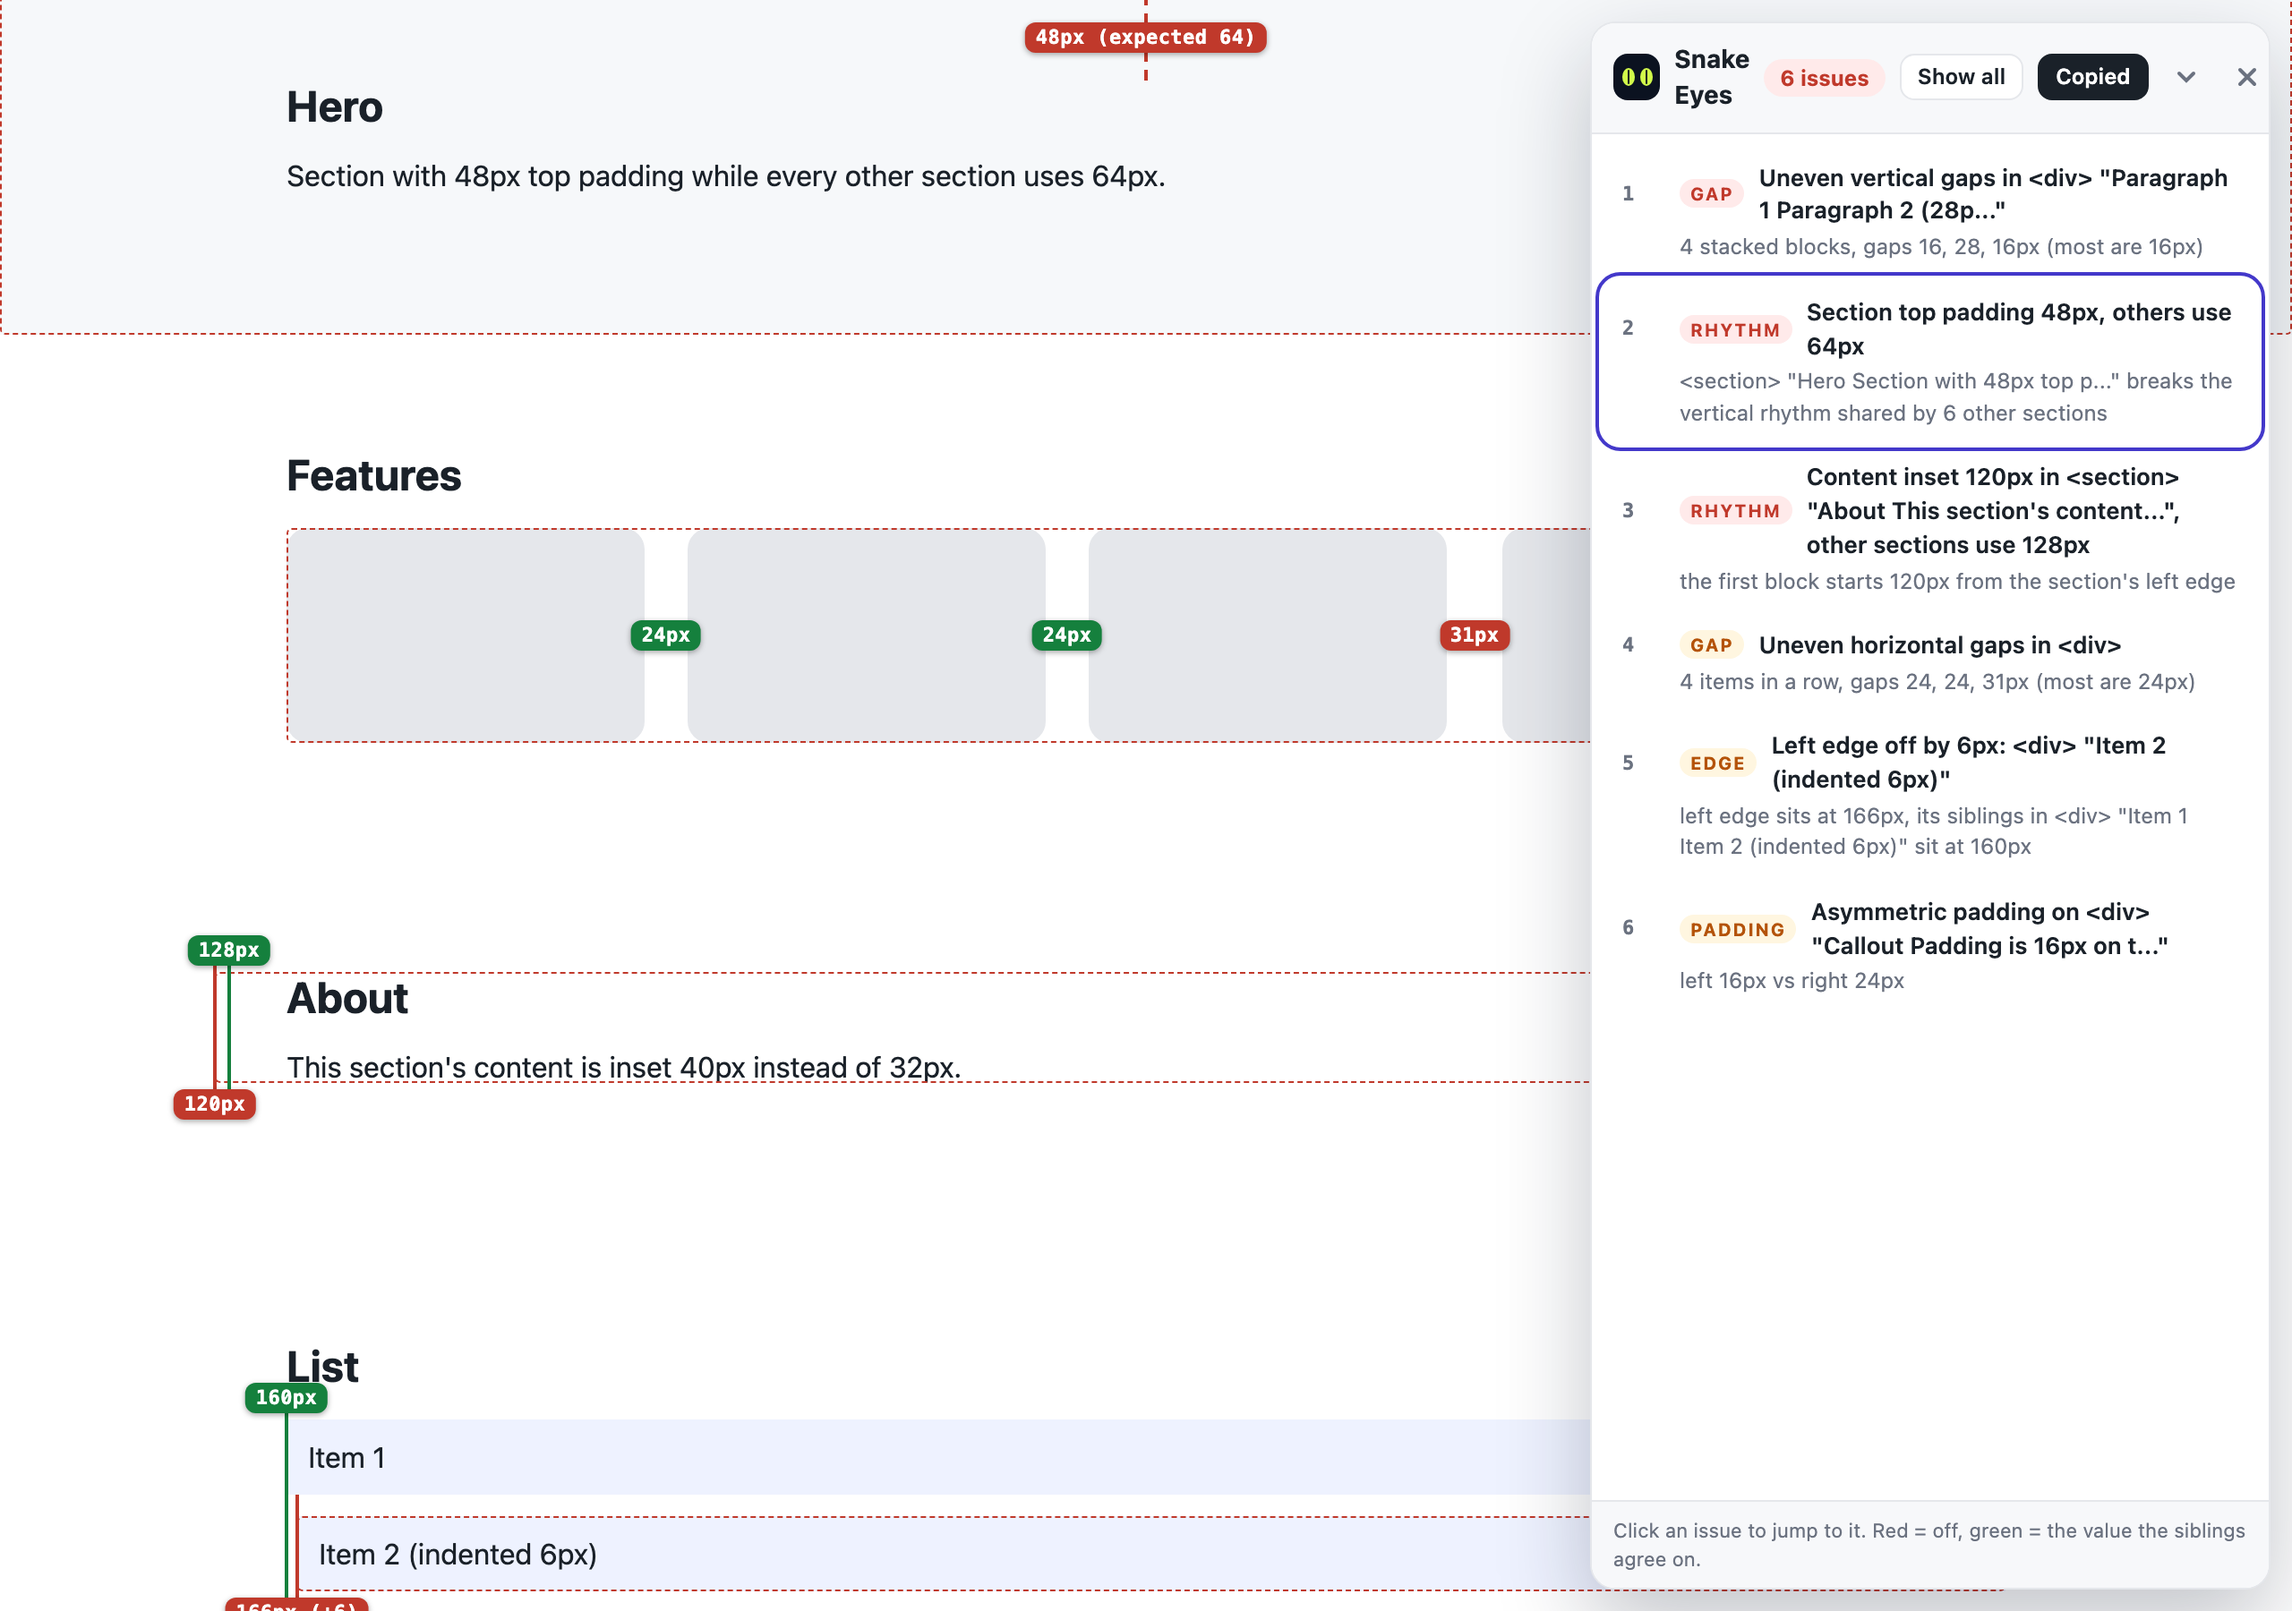
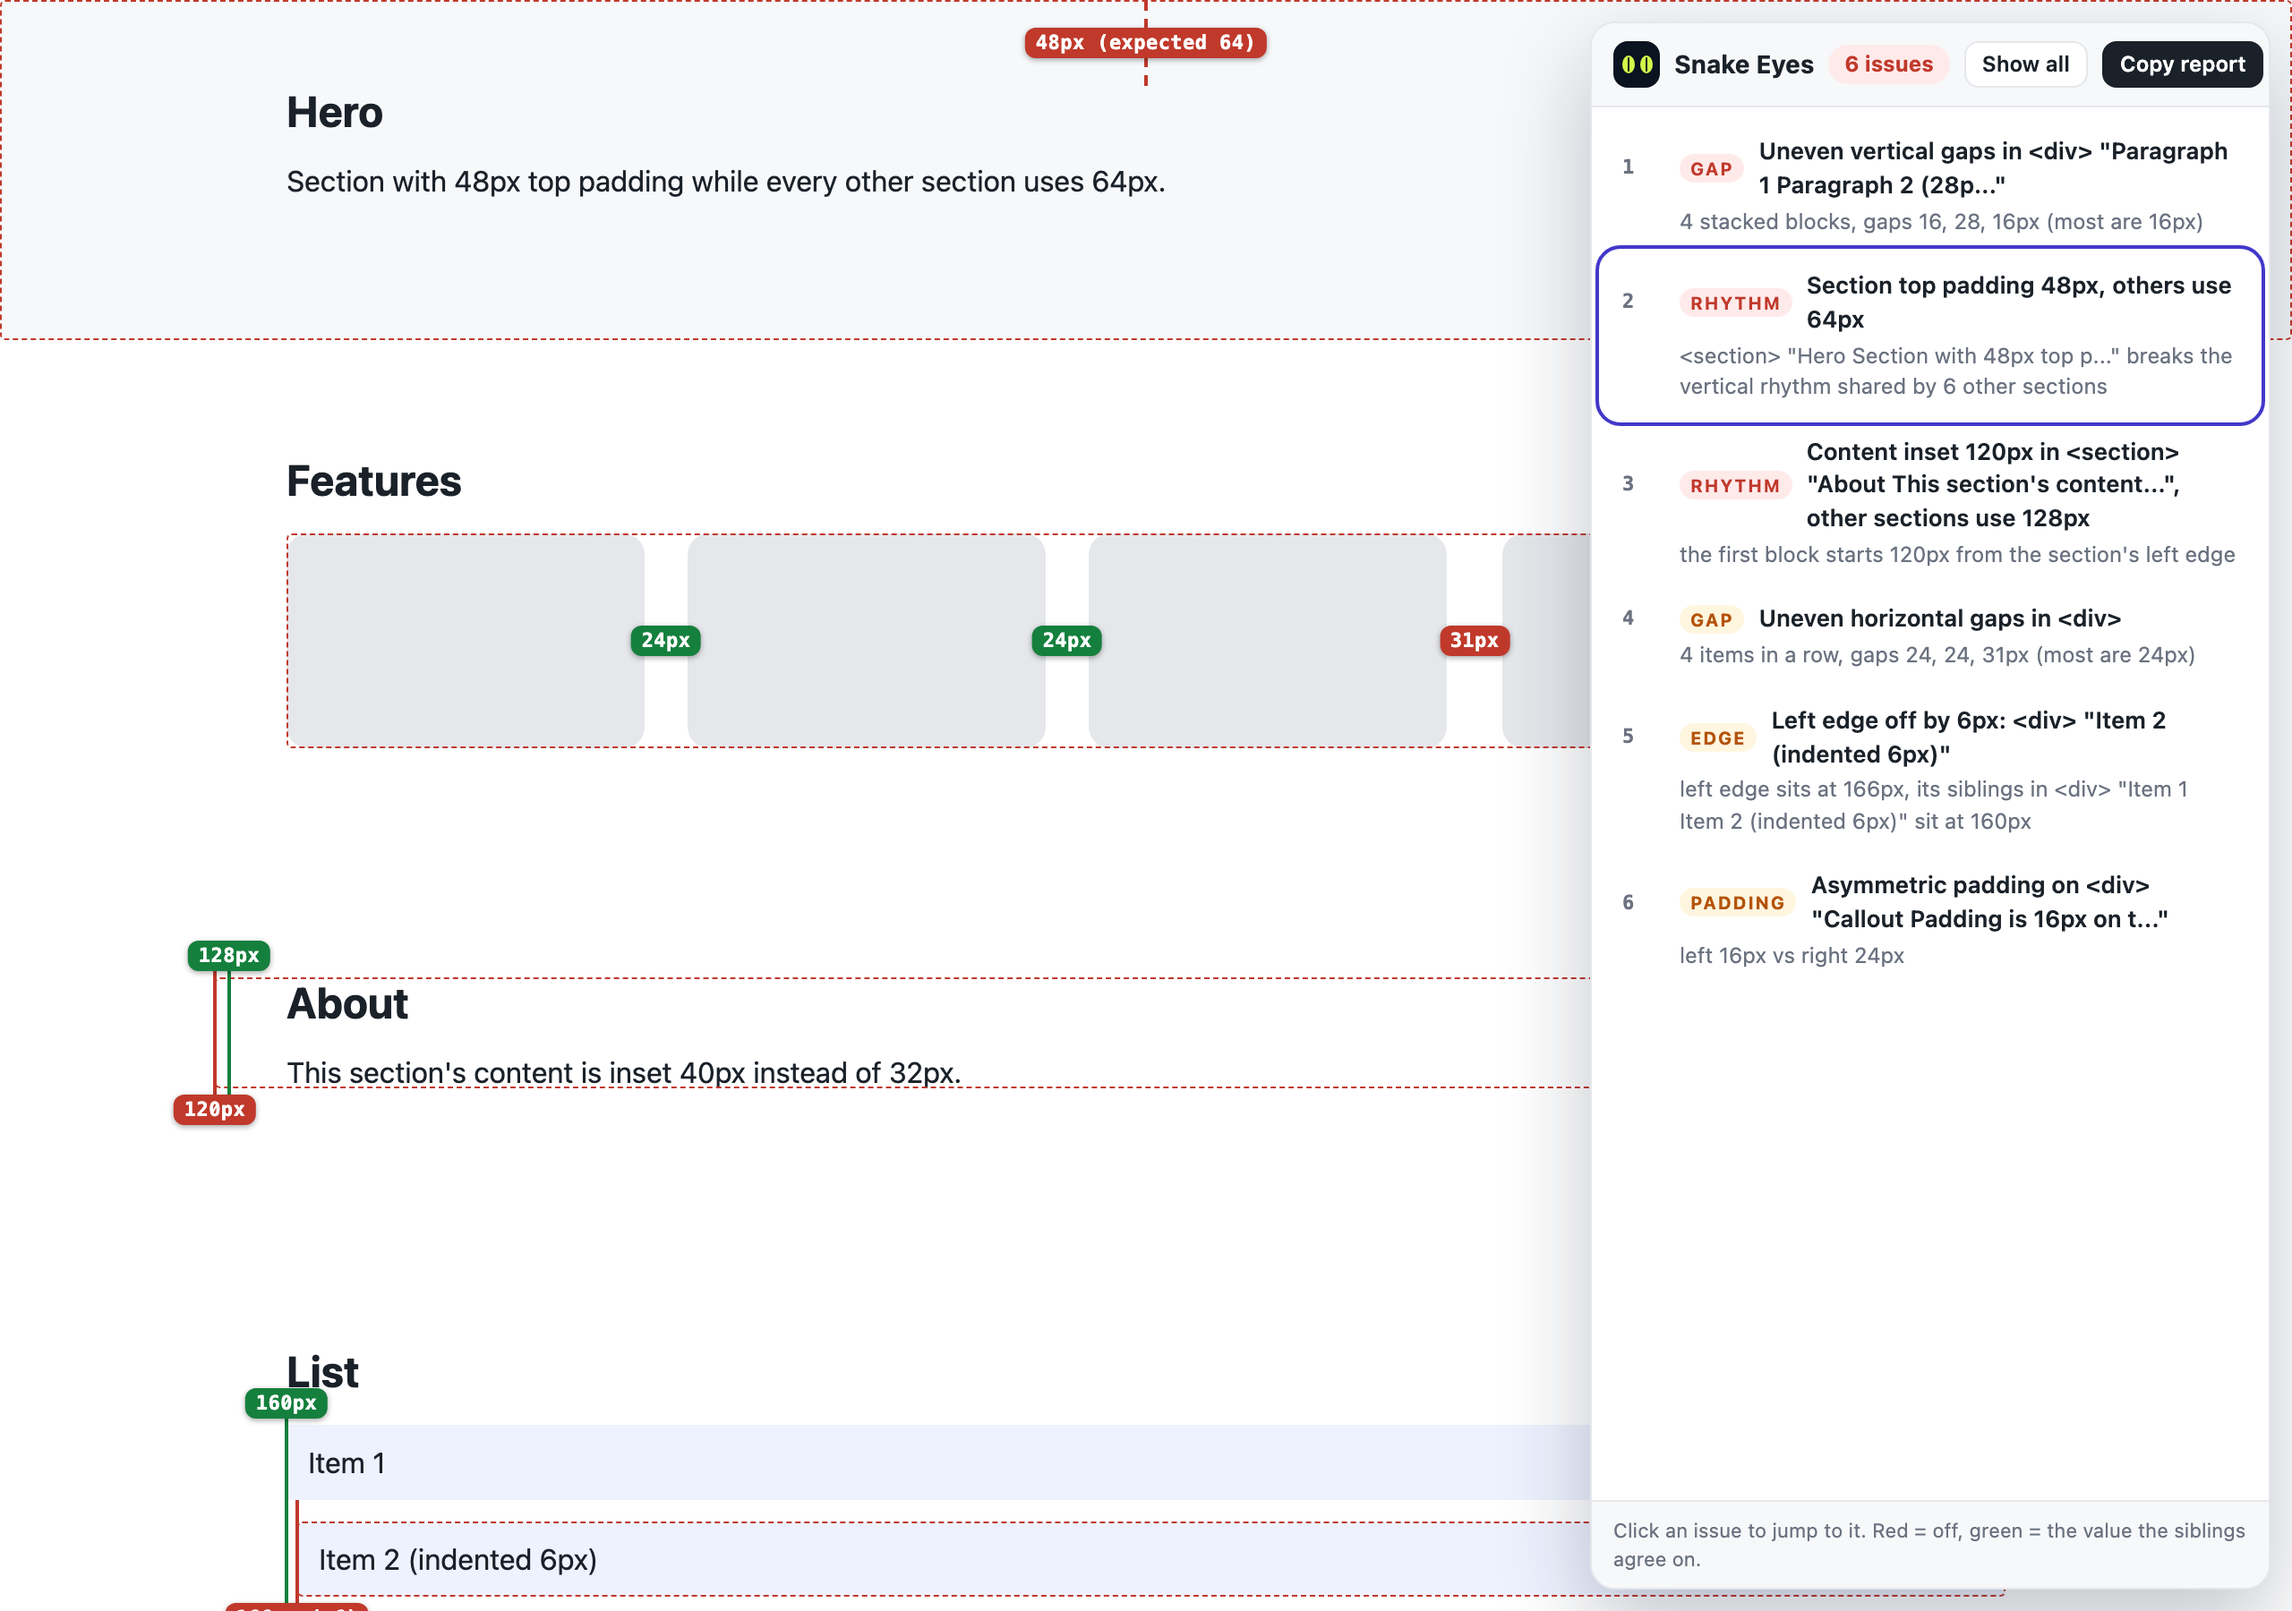
fix(panel): keep the title on 1 line, capture the hero after the Copied label resets

diff --git a/panel.css b/panel.css
@@ -39,7 +39,7 @@
   .snk-panel { top: auto; right: 8px; left: 8px; bottom: 8px; width: auto; max-width: none; max-height: 45vh; }
 }
 .snk-head { display: flex; align-items: center; gap: 8px; padding: 10px 12px; border-bottom: 1px solid var(--snk-line); background: var(--snk-bg2); }
-.snk-title-h { margin: 0; font-size: 14px; font-weight: 700; }
+.snk-title-h { margin: 0; font-size: 14px; font-weight: 700; white-space: nowrap; }
 .snk-logo { display: inline-flex; gap: 3px; width: 26px; height: 26px; border-radius: 8px; background: #0b1220; align-items: center; justify-content: center; flex-shrink: 0; }
 .snk-logo i { display: block; width: 7px; height: 10px; border-radius: 50%; background: #d1fa4a; position: relative; }
 .snk-logo i::after { content: ""; position: absolute; left: 3px; top: 1px; width: 1.5px; height: 8px; background: #0b1220; border-radius: 1px; }
